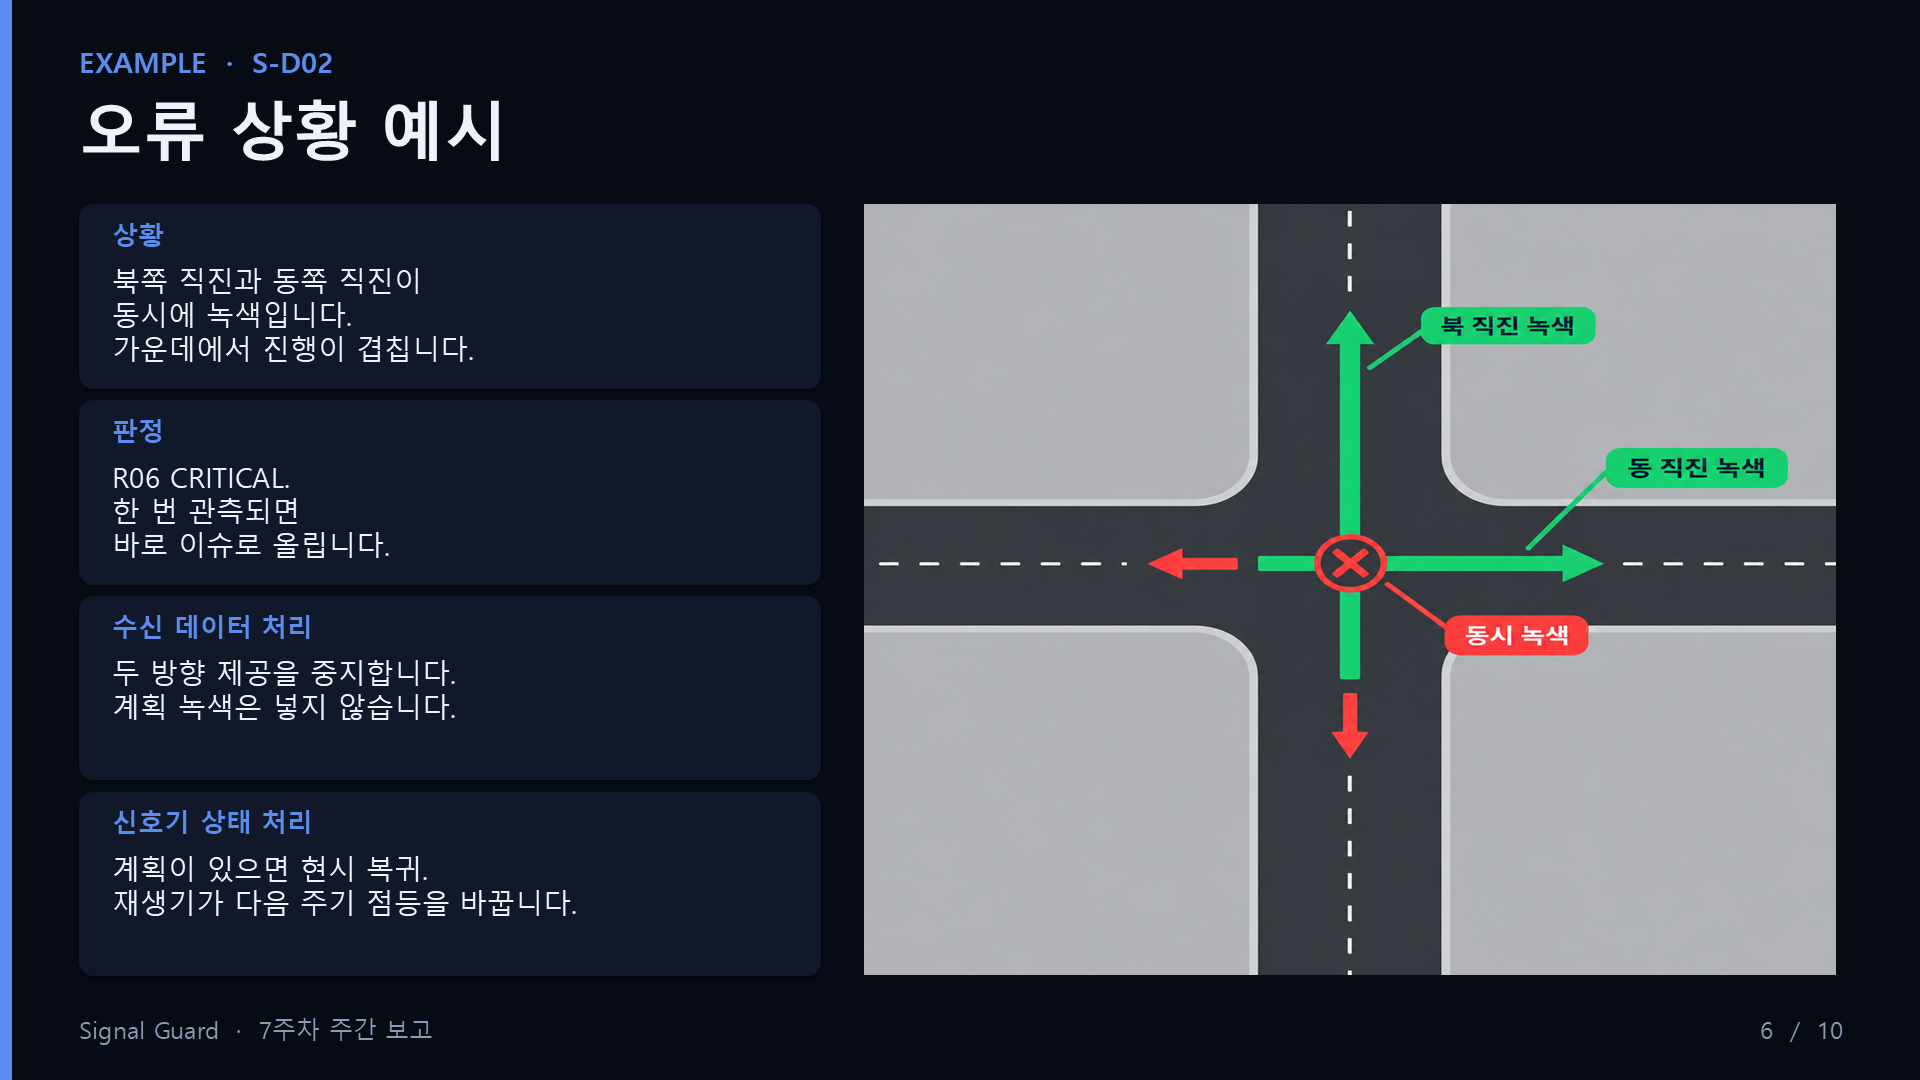
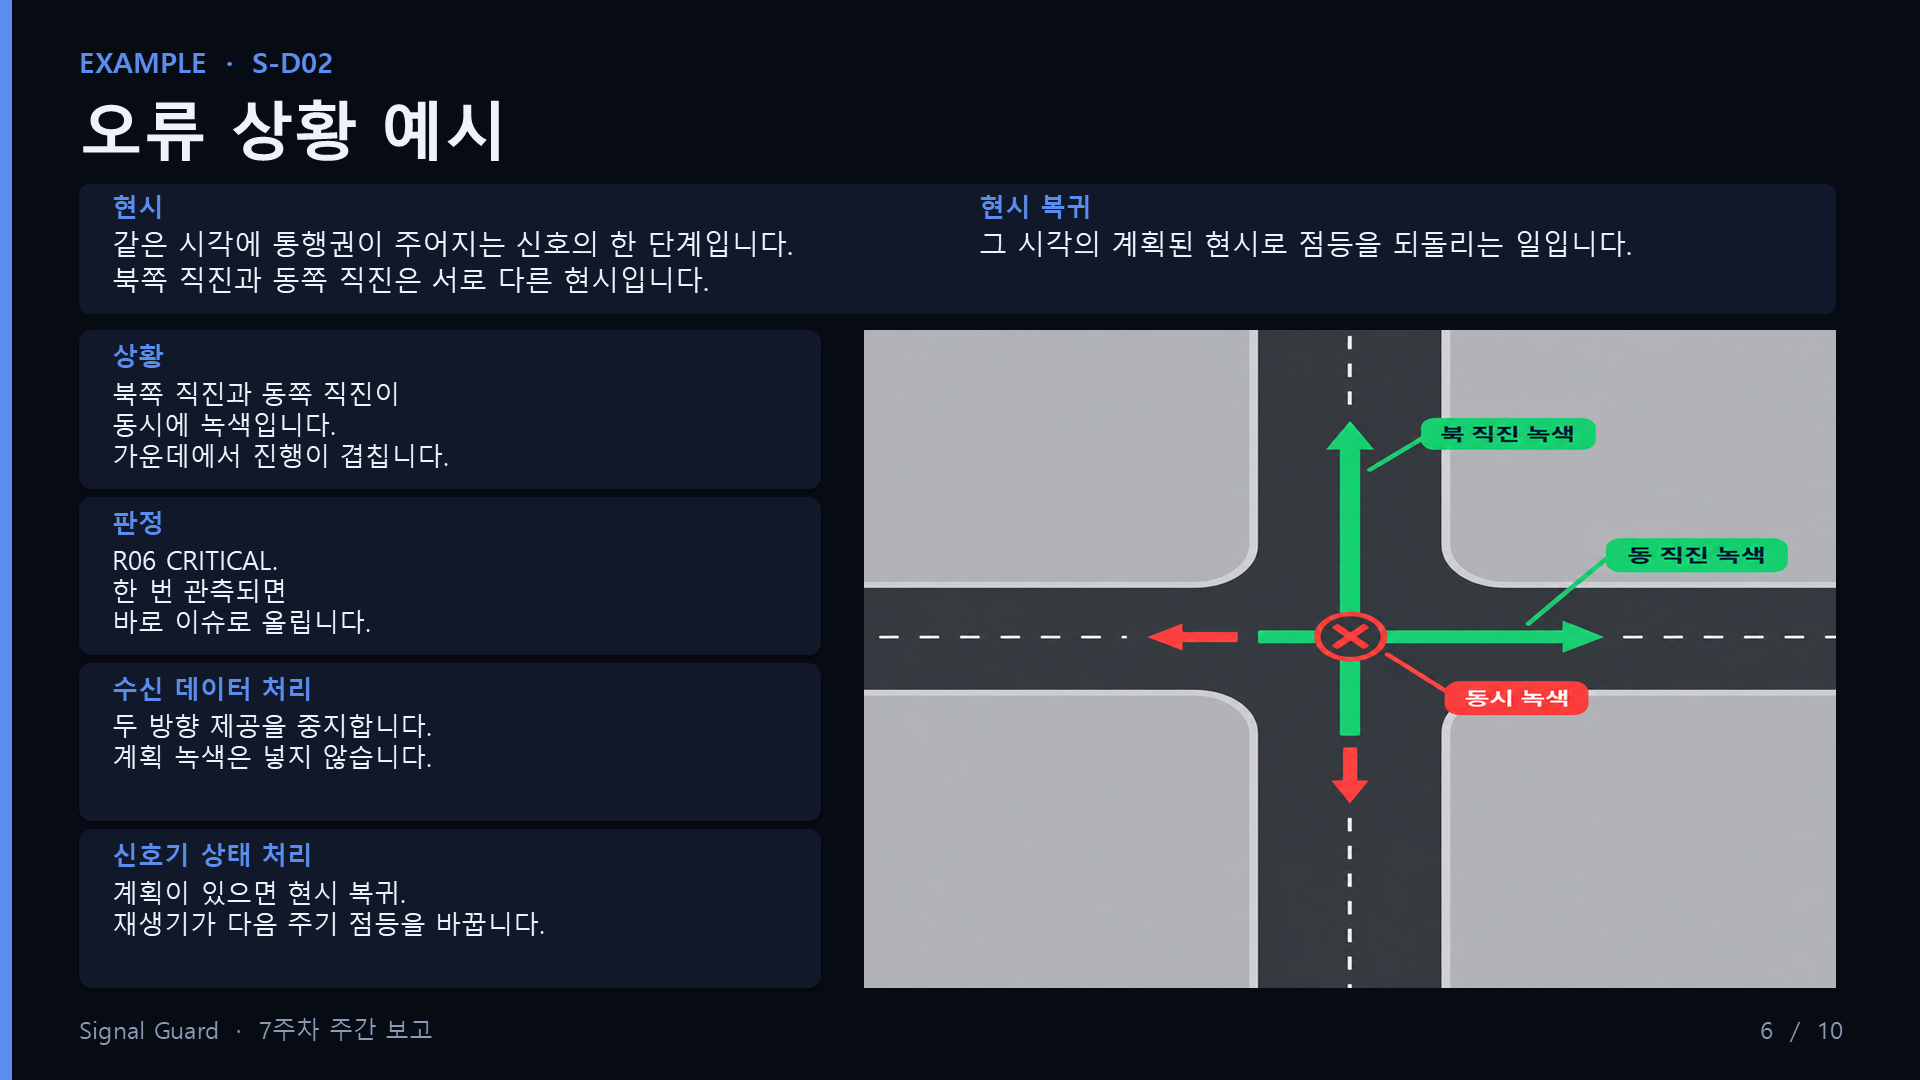
Explain signal phase on the week 7 example slide and add the speaking script.

Changed region(s): [[0.4375, 0.1833, 0.9688, 0.7333], [0.0312, 0.1833, 0.4062, 0.9167], [0.4375, 0.8861, 0.9688, 0.9167]]

diff --git a/발표/7주차.html b/발표/7주차.html
@@ -43,7 +43,7 @@
     <section class="slide shot" data-title="5주차 변경사항"><img src="w7/03.png?v=rev" alt="5주차 변경사항" /></section>
     <section class="slide shot" data-title="오류 발생 상황 분류"><img src="w7/04.png?v=rev" alt="오류 발생 상황 분류" /></section>
     <section class="slide shot" data-title="문서 작성 방법"><img src="w7/05.png?v=rev" alt="문서 작성 방법" /></section>
-    <section class="slide shot" data-title="오류 상황 예시"><img src="w7/06.png?v=rev" alt="오류 상황 예시" /></section>
+    <section class="slide shot" data-title="오류 상황 예시"><img src="w7/06.png?v=rev2" alt="오류 상황 예시" /></section>
     <section class="slide shot" data-title="자동 보정 가능 상황"><img src="w7/07.png?v=rev" alt="자동 보정 가능 상황" /></section>
     <section class="slide shot" data-title="자동 보정 불가 상황"><img src="w7/08.png?v=rev" alt="자동 보정 불가 상황" /></section>
     <section class="slide shot" data-title="다음 주 할 일"><img src="w7/09.png?v=rev" alt="다음 주 할 일" /></section>

diff --git a/7주차_주간보고_대본.md b/7주차_주간보고_대본.md
@@ -1,0 +1,123 @@
+# 7주차 주간 보고 대본
+
+Signal Guard. 조찬희 · 기경현. 약 6분.
+
+슬라이드에 있는 문장을 기준으로 읽고, 아래 문장으로 잇습니다.
+
+## 1. 표지
+
+7주차 주간 보고입니다. Signal Guard입니다.
+
+이번 주에는 오류가 생겼을 때의 처리를 두 갈래로 나눴습니다. 수신 데이터 처리와 신호기 상태 처리입니다.
+
+## 2. 이번주
+
+이번 주에 적은 것은 세 가지입니다.
+
+첫째, 신호 데이터에서 일어날 수 있는 상황을 ID로 나눠 적었습니다.
+
+둘째, 그 상황의 처리를 수신 데이터 처리와 신호기 상태 처리로 나눠 적었습니다.
+
+셋째, 계획 데이터를 로컬 데이터베이스에 저장했습니다.
+
+## 3. 5주차 변경사항
+
+5주차에 실시간 API만으로는 부족하다고 봤습니다. 실시간 API는 전국 데이터로 보이지만 빈 항목이 많습니다. 목표 지역의 실측으로 계획과 대조하기 어렵습니다.
+
+그래서 임의의 오류 데이터를 생성해 대시보드에 표시하기로 했습니다.
+
+넣는 방법은 이렇습니다. 정상 신호를 먼저 두고, 그 위에 정한 오류를 얹습니다. 어떤 상황을 넣었는지는 ID로 남깁니다.
+
+## 4. 오류 발생 상황 분류
+
+상황을 일곱 가지로 나눴고, 각 상황을 어느 처리로 닫는지도 같이 적었습니다.
+
+A, 수집·수신입니다. 타임아웃, 빈 응답, 중복 수신이고, 수신 데이터 처리로 닫습니다.
+
+B, 값·형식입니다. 별칭, 결측, 단위가 섞인 경우이고, 역시 수신 데이터 처리입니다.
+
+C, 시계열입니다. 잔여시간이 급증하거나 급감하고, 같은 값이 반복됩니다. 반복이면 신호기 쪽으로 넘깁니다.
+
+D, 현시 논리입니다. 황색이 빠지거나, 교차하는 방향이 동시에 녹색인 경우입니다. 신호기 상태 처리로 닫습니다. 현시가 무엇인지는 다음 예시에서 설명드리겠습니다.
+
+E, 계획 대조입니다. 계획이 맞지 않거나 교차로 매핑이 잘못된 경우이고, 원인을 가른 뒤에 처리합니다.
+
+F, 통제·운영입니다. 같은 보정이 반복되거나 권한 없는 수정이고, 수신 데이터 처리입니다.
+
+G, 연쇄입니다. 여러 교차로가 같은 시각에 이상이면, 상태가 확인될 때 신호기를 처리합니다.
+
+## 5. 문서 작성 방법
+
+한 상황을 표의 한 줄로 적습니다. 예시는 S-D02, 북쪽과 동쪽 직진이 동시에 녹색인 상황입니다.
+
+판정은 R06, CRITICAL입니다.
+
+수신 데이터 처리는 두 방향의 제공을 중지하고, 계획 녹색은 넣지 않습니다. 수신이 계획과 3주기 연속으로 맞으면 제공을 되돌립니다.
+
+신호기 상태 처리는 현시 복귀입니다. 두 방향 점등을 함께 계획으로 되돌립니다. 명령을 보낸 뒤에도 불일치가 남으면 실패로 둡니다.
+
+열의 의미는 이렇습니다.
+
+수신 데이터 처리는, 제공값을 고치거나 고칠 수 없으면 그 값을 내보내지 않는 일입니다.
+
+신호기 상태 처리는, 점등, 잔여, 운영 모드, 주기 시작을 계획에 맞추는 명령입니다.
+
+검증은, 재생기에 오류를 넣고 명령 뒤 다음 주기 점등이 바뀌는지 확인하는 일입니다.
+
+## 6. 오류 상황 예시
+
+이 예시에서 현시라는 말이 나와서, 먼저 뜻을 말씀드리겠습니다.
+
+현시는 한 교차로에서 같은 시각에 통행권이 주어지는 신호의 한 단계입니다. 북쪽 직진이 녹색인 동안이 하나의 현시이고, 이어서 동쪽 직진이 녹색이 되면 다음 현시입니다. 그래서 이 그림의 북쪽 직진과 동쪽 직진은 서로 다른 현시입니다. 동시에 녹색이면 안 됩니다.
+
+현시 복귀는 신호기 점등을 그 시각에 계획된 현시로 되돌리는 일입니다. 두 방향의 점등을 함께 그 계획으로 맞춥니다.
+
+이제 상황을 보시면, 북쪽 직진과 동쪽 직진이 동시에 녹색입니다. 두 진행이 교차로 가운데에서 겹칩니다.
+
+판정은 R06 CRITICAL입니다. 한 번만 관측되어도 바로 이슈로 올립니다.
+
+수신 데이터 처리는 두 방향 제공을 중지합니다. 계획이 한쪽을 녹색으로 두고 있어도, 그 계획 녹색을 제공값에 넣지 않습니다. 현장이 둘 다 녹색일 때 한쪽을 정상 신호처럼 보여 주면 운전자를 들여보내게 되기 때문입니다.
+
+신호기 상태 처리는, 계획이 있으면 현시 복귀입니다. 재생기가 다음 주기부터 계획된 점등으로 바꿉니다.
+
+## 7. 자동 보정 가능 상황
+
+수신 데이터만으로 닫는 경우입니다. 신호기에는 명령을 내지 않습니다.
+
+점등상태가 G나 green이면, 제공값만 표준 코드로 바꿉니다. 원본은 유지하고 로그만 남깁니다.
+
+같은 내용이 두 번 오면, 원본은 두고 제공값만 하나로 둡니다.
+
+잔여가 계획 길이를 조금 넘으면 제공값만 상한으로 맞춥니다. 많이 넘으면 제공하지 않습니다.
+
+한 주기만 잔여가 비어 있고 직전과 계획이 같으면 1초만 채웁니다. 연속으로 비면 이슈로 올립니다.
+
+사전에 없는 코드이거나 단위가 불명이면, 그 방향 제공을 잠시 막습니다. 신호기 명령은 만들지 않습니다.
+
+## 8. 자동 보정 불가 상황
+
+여기부터는 신호기 상태 처리가 필요합니다. 제공값만 고치면 화면은 바뀌어도 현장 신호는 그대로이기 때문입니다.
+
+교차하는 방향이 동시에 녹색이면, 두 방향 제공을 중지하고 즉시 현시 복귀합니다.
+
+같은 잔여가 다섯 번 반복되면, 확인 중으로 표시하고 잔여 재동기를 합니다.
+
+전방향이 소등이면, 그 교차로 제공을 차단하고 운영 모드를 되돌립니다.
+
+사이클이 계속 길어지면, 경고로 남기고 주기 재동기를 합니다.
+
+이 교차로만 계획과 계속 다르면, 틀린 값은 제공하지 않습니다. 원인이 신호기일 때 현시 복귀합니다.
+
+명령을 내지 않는 경우도 적어 두었습니다. 형식이 깨진 값, 수신이 비어 있음, 계획이 없음, 매핑이나 계획의 오류, 긴급 우선 구간입니다. 되돌릴 현시가 없거나, 그 시각의 계획으로 되돌리면 안 되는 경우입니다.
+
+## 9. 다음 주 할 일
+
+다음 주에는 두 가지를 합니다.
+
+중간보고서를 작성합니다. 오늘 말씀드린 처리 두 갈래를 포함합니다.
+
+재생기를 준비합니다. 복귀 명령을 받으면 다음 주기 점등을 바꾸는 재생기입니다.
+
+## 10. 질의응답
+
+이상으로 7주차 주간 보고를 마치겠습니다. 질문 받겠습니다.
